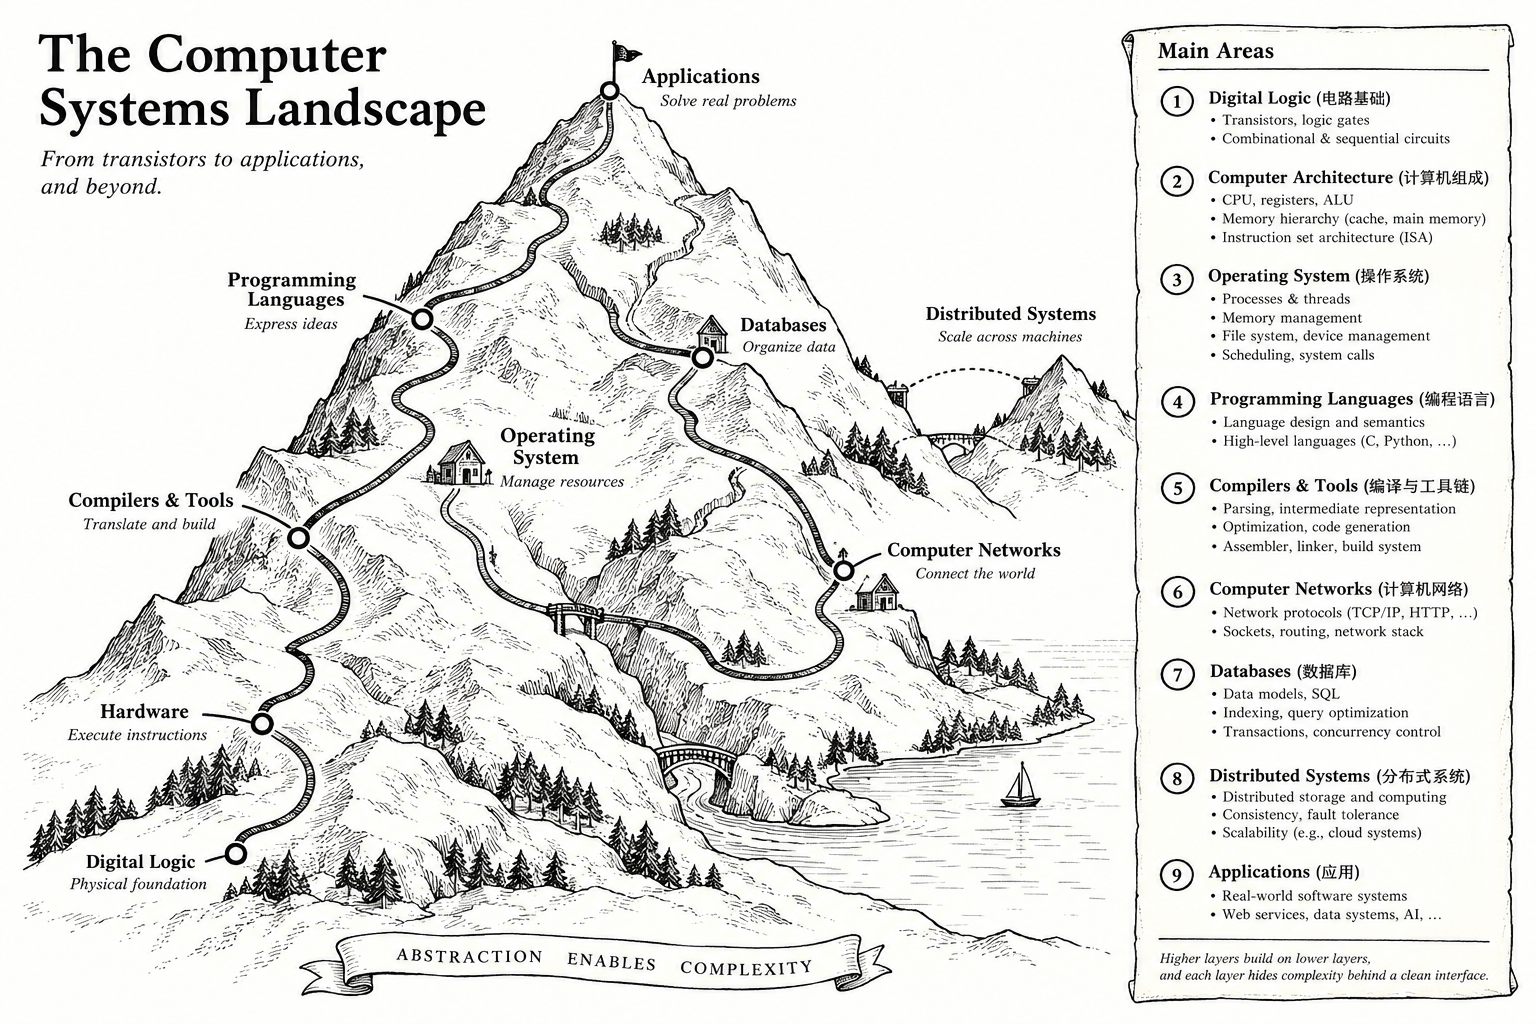
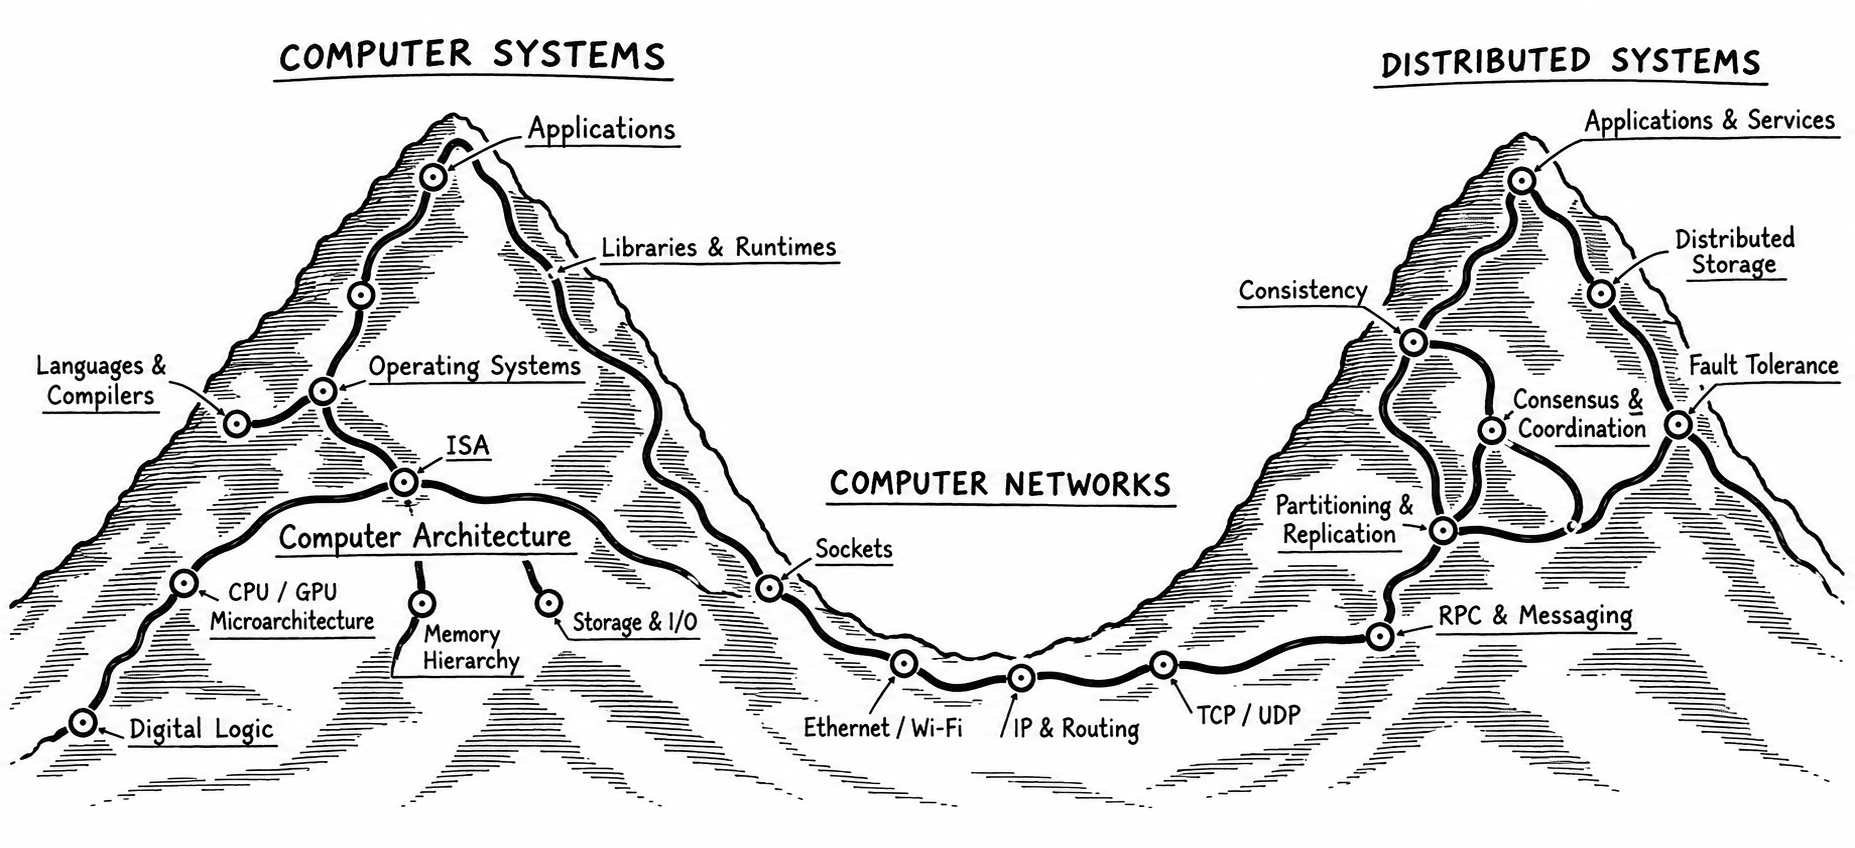
Update homepage map to revised systems and networks landscape

diff --git a/README.md b/README.md
@@ -4,9 +4,9 @@
 
 ## 知识地图
 
-![计算机系统知识地图：从数字逻辑到应用](assets/computer-systems-landscape.png)
+![计算机系统、计算机网络与分布式系统知识地图](assets/computer-systems-landscape.png)
 
-这张图以山路串联数字逻辑、计算机体系结构、操作系统、编程语言、编译器与工具链、计算机网络、数据库、分布式系统和应用，展示计算机系统的主要领域与抽象关系。它不是 CPU 执行一段程序时必须依次经过的路径，也不代表每个领域都必须写一篇笔记。
+这张图以两座山和中间的网络连接展示三个知识领域：左侧是从数字逻辑、计算机体系结构到操作系统和应用的计算机系统；中间是计算机网络；右侧是涵盖复制、一致性、共识与容错等主题的分布式系统。它不是 CPU 执行一段程序时必须依次经过的路径，也不代表每个领域都必须写一篇笔记。
 
 | 区域 | 核心内容 |
 | --- | --- |
